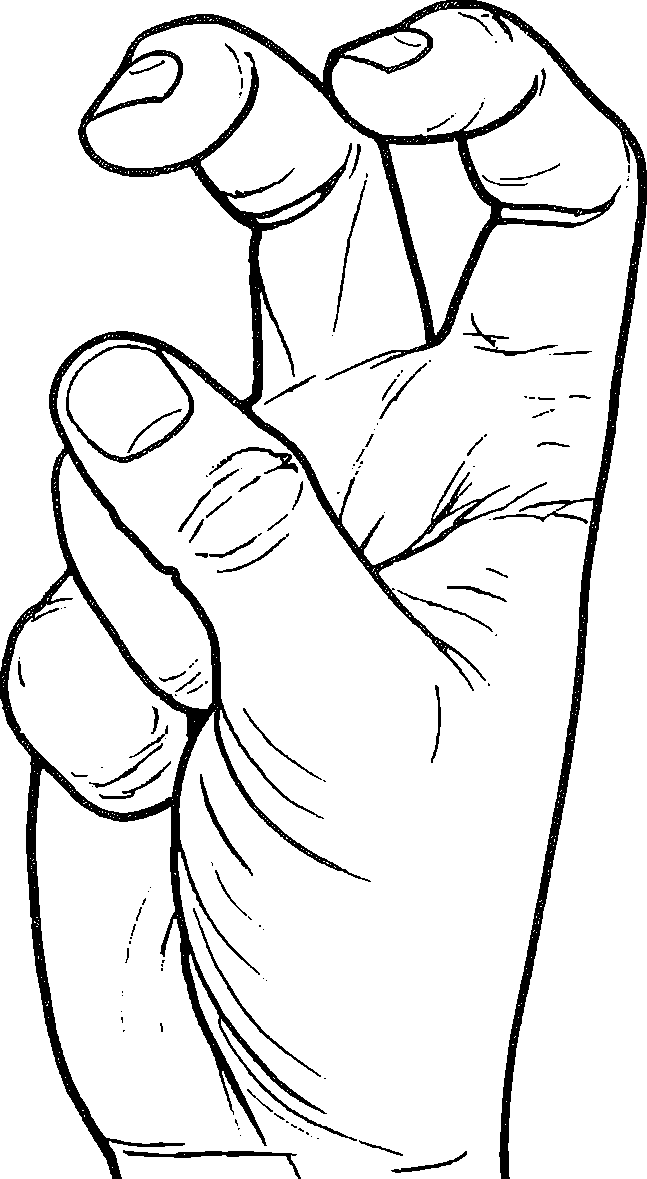
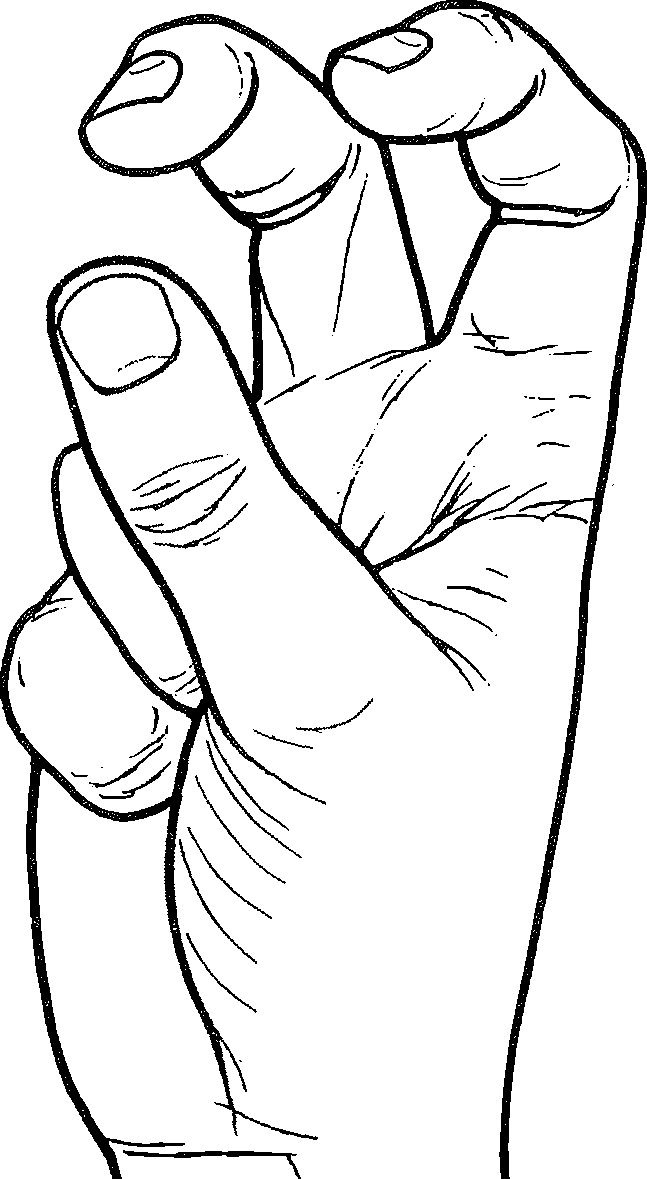
Added image for böjda W-handen

diff --git a/intro.html b/intro.html
@@ -2880,7 +2880,6 @@ div.inline-figures > figure {
                 </blockquote>
               </details>
             </details>
-
             <!-- Tumhanden -->
             <details closed class="f0 knuten fing h1977 h1982 h1989 h1993 h1994 h1997 h2015 hweb">
               <summary><span class="h1977 h1997 h2015 hweb"></span>Tumhanden (tummen)
@@ -3027,12 +3026,15 @@ div.inline-figures > figure {
             </details>
             <!-- F-handen -->
             <details closed class="fs fb f3 tre fing h2015 hweb">
-              <summary><span class="h2015 hweb"></span>F-handen
+              <summary><span class="h2015 hweb"></span>Stora hållhanden (F-handen)
                 <div class="h2015 hweb">
                   <img class="h2015" src=pic/x/stora-nyphanden-5.png>
                 </div>
               </summary>
               <p class=FIXME>(Beskrivning saknas)
+
+              <p>Kallas stora hållhanden i<a href=#2008>Svenskt
+              teckenspråkslexikon (2008)</a>, har tidigare kallats F-handen.
             </details>
             <!-- Knutna handen -->
             <details closed class="f0 closed knuten hel h1977 h1982 h1989 h1993 h1994 h1997 h2015 hweb">
@@ -3253,13 +3255,12 @@ div.inline-figures > figure {
                 <blockquote>
                   <b>Krokfingret</b> är också pekfingret, som här dock är böjt
                   i yttre knogen och därmed också i den yttersta leden på
-                  fingret. (<a href=#1997>Svenskt teckenspråkslexikon, 1997:
-                  46</a>)
+                  fingret. (<a href=#1977>Bergman, 1977: 45</a>)
                 </blockquote>
 
                 <blockquote>
                   [K]rokfingrets [symbol är] ett uppochnervänt J.
-                  (<a href=#1997>Svenskt teckenspråkslexikon, 1997: 80</a>)
+                  (<a href=#1977>Bergman, 1977: 80</a>)
                 </blockquote>
               </details>
               <details closed class="quote FIXME">
@@ -3614,6 +3615,21 @@ div.inline-figures > figure {
                 </div>
               </summary>
               <details closed class=quote>
+                <summary><a href=#1977>Bergman (1977)</a></summary>
+
+                <blockquote>
+                 […] den knutna handens variant hållhanden.
+                 (<a href=#1977>Bergman, 1977: 66</a>)
+                </blockquote>
+                <blockquote>
+                  <i>’hållhanden’</i> […] skiljer sig från den äkta knutna
+                  formen genom att tummen ligger mot pekfingrets sida (ungefär
+                  samma form som handen har när man håller i en nyckel).
+                  (<a href=#1977>Bergman, 1977: 45</a>)
+                </blockquote>
+              </details>
+
+              <details closed class=quote>
                 <summary><a href=#1994>Wallin (1994)</a></summary>
 
                 <blockquote>
@@ -3622,6 +3638,10 @@ div.inline-figures > figure {
                   pekfingret. (<a href=#1994>Wallin, 1994: 126</a>)
                 </blockquote>
               </details>
+
+              <p><a href=#1977>Bergman (1977)</a> betraktar hållhanden som en
+              variant av knutna handen och transkriberar den således med ””
+              (symbolen ”” skapades senare).
             </details>
             <!-- Q-handen -->
             <details closed class="f0 fing knuten h2015 hweb">
@@ -3851,27 +3871,21 @@ div.inline-figures > figure {
                 </blockquote>
               </details>
             </details>
-            <!-- W-handen -->
-            <details closed class="fx fr f3 fing tre h1997 h1982 h1993 h1994 h2015 hweb">
+            <!-- W-handen (och böjda W-handen) -->
+            <details closed class="fb fx fr f3 fing tre h1997 h1982 h1993 h1994 h2015 hweb">
               <summary><span class="h1997 h2015 hweb"></span>W-handen
                 <div class="h1997 h2015 hweb">
-                  <img class="h1997 h2015" src=pic/x/w-handen-1.png>
+                  <img class="h1997 h2015" src=pic/x/w-handen-1.png
+                  ><img class="hweb" src=pic/x/bojda-w-handen.png>
                 </div>
               </summary>
-              <p class=FIXME>(Beskrivning saknas)
-            </details>
-            <!-- Böjda W-handen -->
-            <details closed class="fb fx f3 fing tre hweb">
-              <summary><span class="hweb img FIXME">?</span>Böjda W-handen
-                <div class="hweb">
-                  <span class="img FIXME">?</span>
-                </div>
-              </summary>
-              <p>Denna handform har ingen egen symbol
-              i <a href=#1997>Svenskt teckenspråkslexikon (1997)</a> utan
-              transkriberas där med ”” i de tecken där den förekommer.
-              Benämningen ”böjda W-handen” förekommer dock i
-              beskrivningen av följande tecken:
+              <p class=FIXME>(Beskrivning av W-handen saknas)
+
+              <p><p>Böjda W-handen finns inte explicit dokumenterad någonstans,
+              men i <a href=#2008>Svenskt teckenspråkslexikon (2008)</a> finns
+              det ett antal tecken där handformen beskrivs som ”böjda W-handen”
+              i den svenska beskrivningen (i samtliga av dessa tecken
+              transkriberas handformen med ””):
 
               <table>
                 <tr><td>  <td><a href=01376>tre veckor</a>

diff --git a/handform.html b/handform.html
@@ -1,7 +1,7 @@
-<!doctype html>
+<!DOCTYPE html><!--*-ispell-dictionary:"sv";js-indent-level:2;css-indent-offset:2-*-->
 <html lang=sv>
 <head>
-  <!-- Copyright 2018 by zrajm. Released under GPLv3 license. -->
+  <!-- Copyright 2018-2023 by zrajm. Released under GPLv3 license. -->
   <meta charset="UTF-8">
   <link rel="shortcut icon" type="image/x-icon" href="favicon.ico">
   <meta name="viewport" content="width=device-width, initial-scale=1">
@@ -364,7 +364,7 @@
           <th>spretad</th>
           <td><img src="pic/x/w-handen-1.png"></td>
           <td></td>
-          <td class=middle><a href="#bojda-w-handen">böjd<br>w-hand</a></td>
+          <td><img src="pic/x/bojda-w-handen.png"></td>
           <!--td-->
           <td></td>
           <td></td>
@@ -414,11 +414,12 @@
         tecknet <a href="https://teckensprakslexikon.su.se/ord/04333"
         style="font-variant:small-caps">annan, annat</a>.
 
-        <p id="bojda-w-handen"><b>böjda w-handen</b> – Förekommer i tecknet
-        <a href="http://teckensprakslexikon.su.se/ord/01376">för tre veckor
-        sedan</a>.
+        <p id="bojda-w-handen"><b>böjda w-handen</b> – Förekommer bland annat i
+        tecknet <a href="http://teckensprakslexikon.su.se/ord/01376">för tre
+        veckor sedan</a>.
 
-        <p id="dejthanden"><b>dejthanden</b> – ?
+        <p id="dejthanden"><b>dejthanden</b> – Rakt pekfinger, men de övriga
+        fingrarna är inte knutna utan har samma form som i O-handen.
 
         <p id="jasåhanden"><b>jasåhanden</b> –
         Som <img src="pic/x/stora-langfingret-1.png"> fast med lill- och
